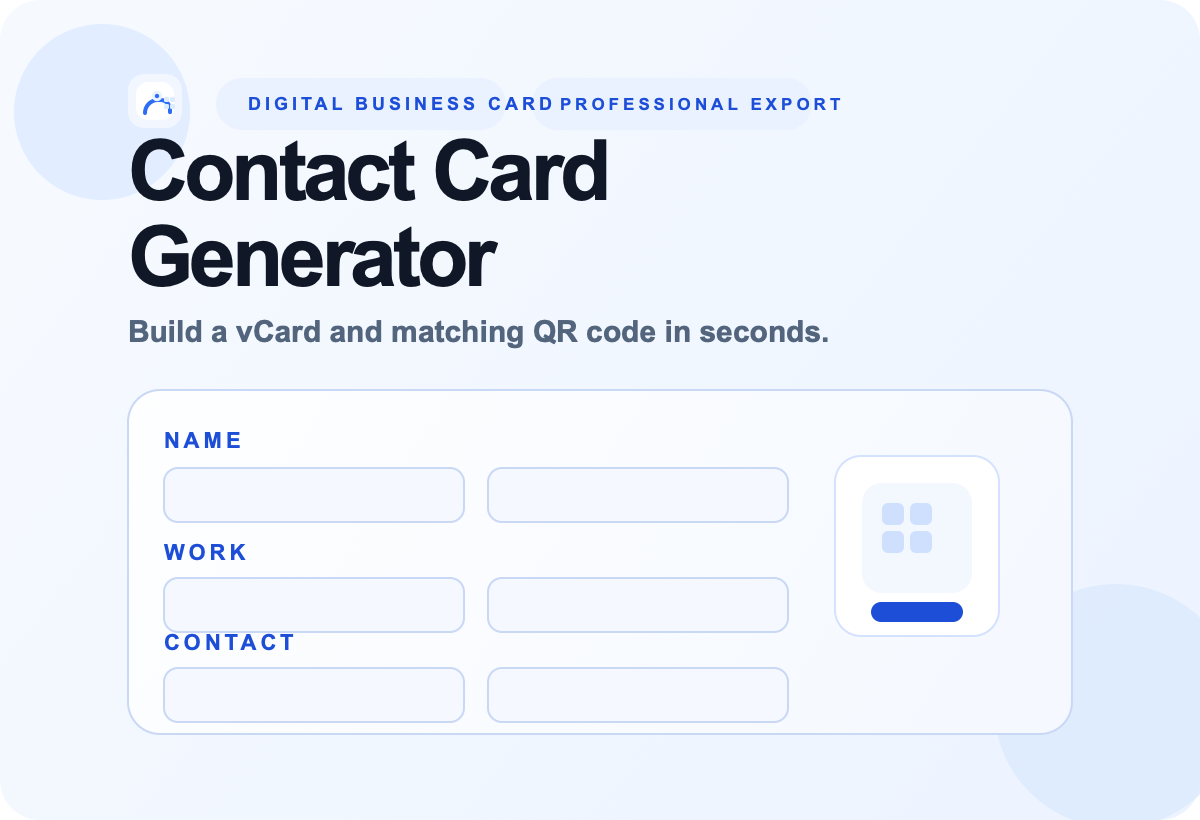
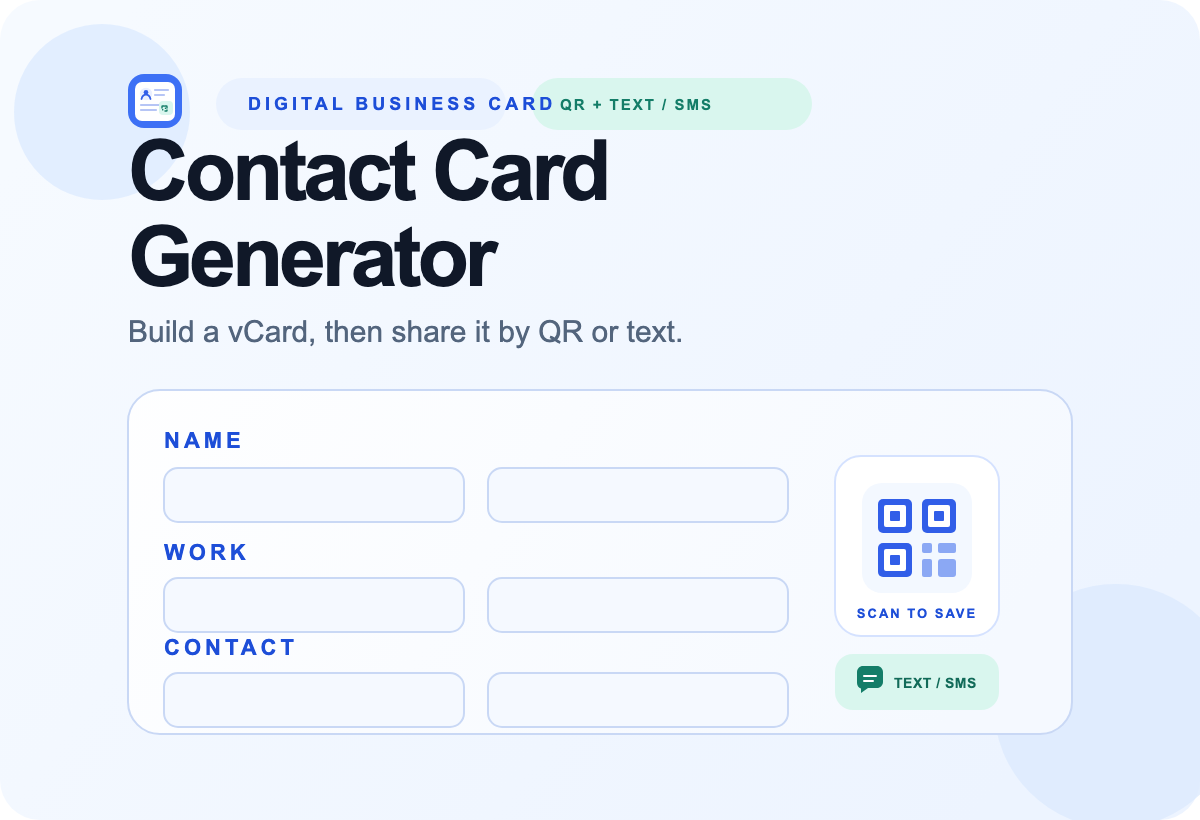
Improve contact card branding and link preview

diff --git a/contact-card-generator/index.html b/contact-card-generator/index.html
@@ -4,25 +4,25 @@
     <script defer src="../analytics.js"></script>
     <meta charset="UTF-8" />
     <meta name="viewport" content="width=device-width, initial-scale=1.0" />
-    <title>Contact Card Generator</title>
-    <meta name="description" content="Create a shareable vCard contact file and QR code in seconds. Add contact details, preview the card, and download it for any contacts app." />
+    <title>Contact Card Generator — vCard, QR &amp; Text/SMS</title>
+    <meta name="description" content="Create a shareable vCard in seconds. Download it, share a QR code, or send contact details by text/SMS." />
     <link rel="canonical" href="https://alphadyn.github.io/apps/contact-card-generator/" />
     <meta property="og:type" content="website" />
     <meta property="og:site_name" content="Alphadyn AI" />
     <meta property="og:url" content="https://alphadyn.github.io/apps/contact-card-generator/" />
-    <meta property="og:title" content="Contact Card Generator — vCard &amp; QR Code" />
-    <meta property="og:description" content="Create a shareable vCard contact file and QR code in seconds. Add contact details, preview the card, and download it for any contacts app." />
+    <meta property="og:title" content="Contact Card Generator — vCard, QR &amp; Text/SMS" />
+    <meta property="og:description" content="Create a shareable vCard in seconds. Download it, share a QR code, or send contact details by text/SMS." />
     <meta property="og:image" content="https://alphadyn.github.io/apps/contact-card-generator/ui-preview.png" />
     <meta property="og:image:secure_url" content="https://alphadyn.github.io/apps/contact-card-generator/ui-preview.png" />
     <meta property="og:image:type" content="image/png" />
     <meta property="og:image:width" content="1200" />
     <meta property="og:image:height" content="820" />
-    <meta property="og:image:alt" content="Preview of the Contact Card Generator form and QR code." />
+    <meta property="og:image:alt" content="Contact card form with options to share a vCard by QR code or text/SMS." />
     <meta name="twitter:card" content="summary_large_image" />
-    <meta name="twitter:title" content="Contact Card Generator — vCard &amp; QR Code" />
-    <meta name="twitter:description" content="Create a shareable vCard contact file and QR code in seconds." />
+    <meta name="twitter:title" content="Contact Card Generator — vCard, QR &amp; Text/SMS" />
+    <meta name="twitter:description" content="Create a shareable vCard in seconds. Download it, share a QR code, or send contact details by text/SMS." />
     <meta name="twitter:image" content="https://alphadyn.github.io/apps/contact-card-generator/ui-preview.png" />
-    <meta name="twitter:image:alt" content="Preview of the Contact Card Generator form and QR code." />
+    <meta name="twitter:image:alt" content="Contact card form with options to share a vCard by QR code or text/SMS." />
     <link rel="icon" href="favicon.svg" type="image/svg+xml" />
     <link rel="stylesheet" href="styles.css" />
   </head>
